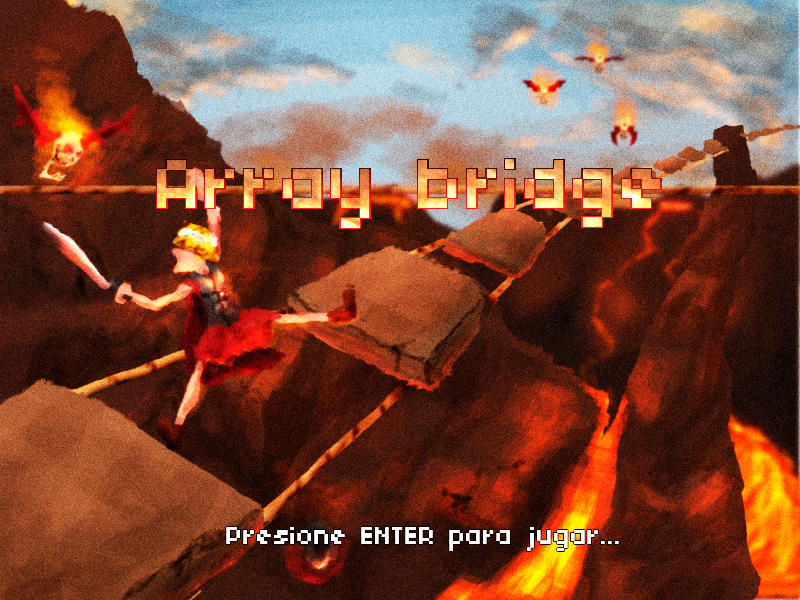
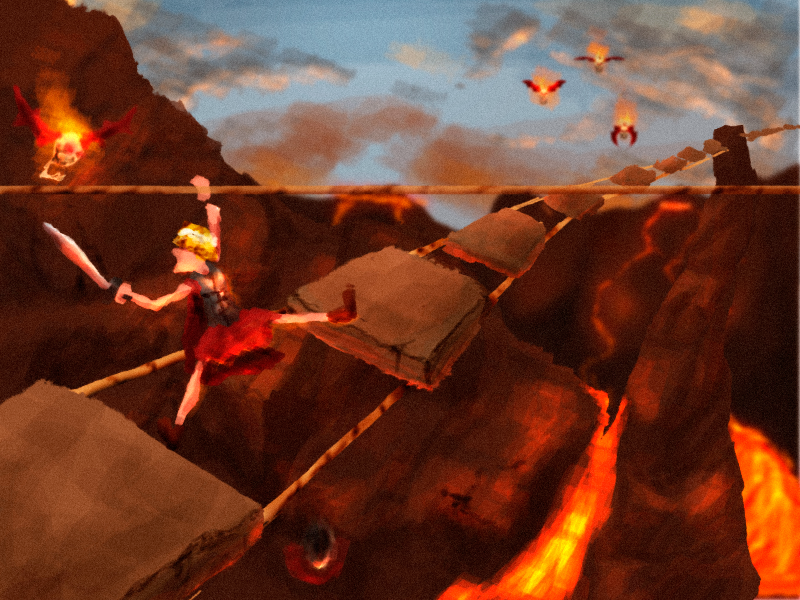
imagen de intro cambiada, título ahora puede cambiarse

diff --git a/js/levels/initMenu.js b/js/levels/initMenu.js
@@ -36,6 +36,11 @@ initMenu = {
 	create: function(){
 
 		image = game.add.sprite(0, 0, 'initmenu');
+		var text = game.add.text(400, 150, 'Array Bridge',
+			{ font: "56pt ferney", fill: '#fff', stroke: '#000000', strokeThickness: 8, align: 'center'});
+		text.anchor.setTo(0.5, 0.5);
+		image.addChild(text);
+
 		game.global.is_playing = false;
 
 		this.addFlags();
